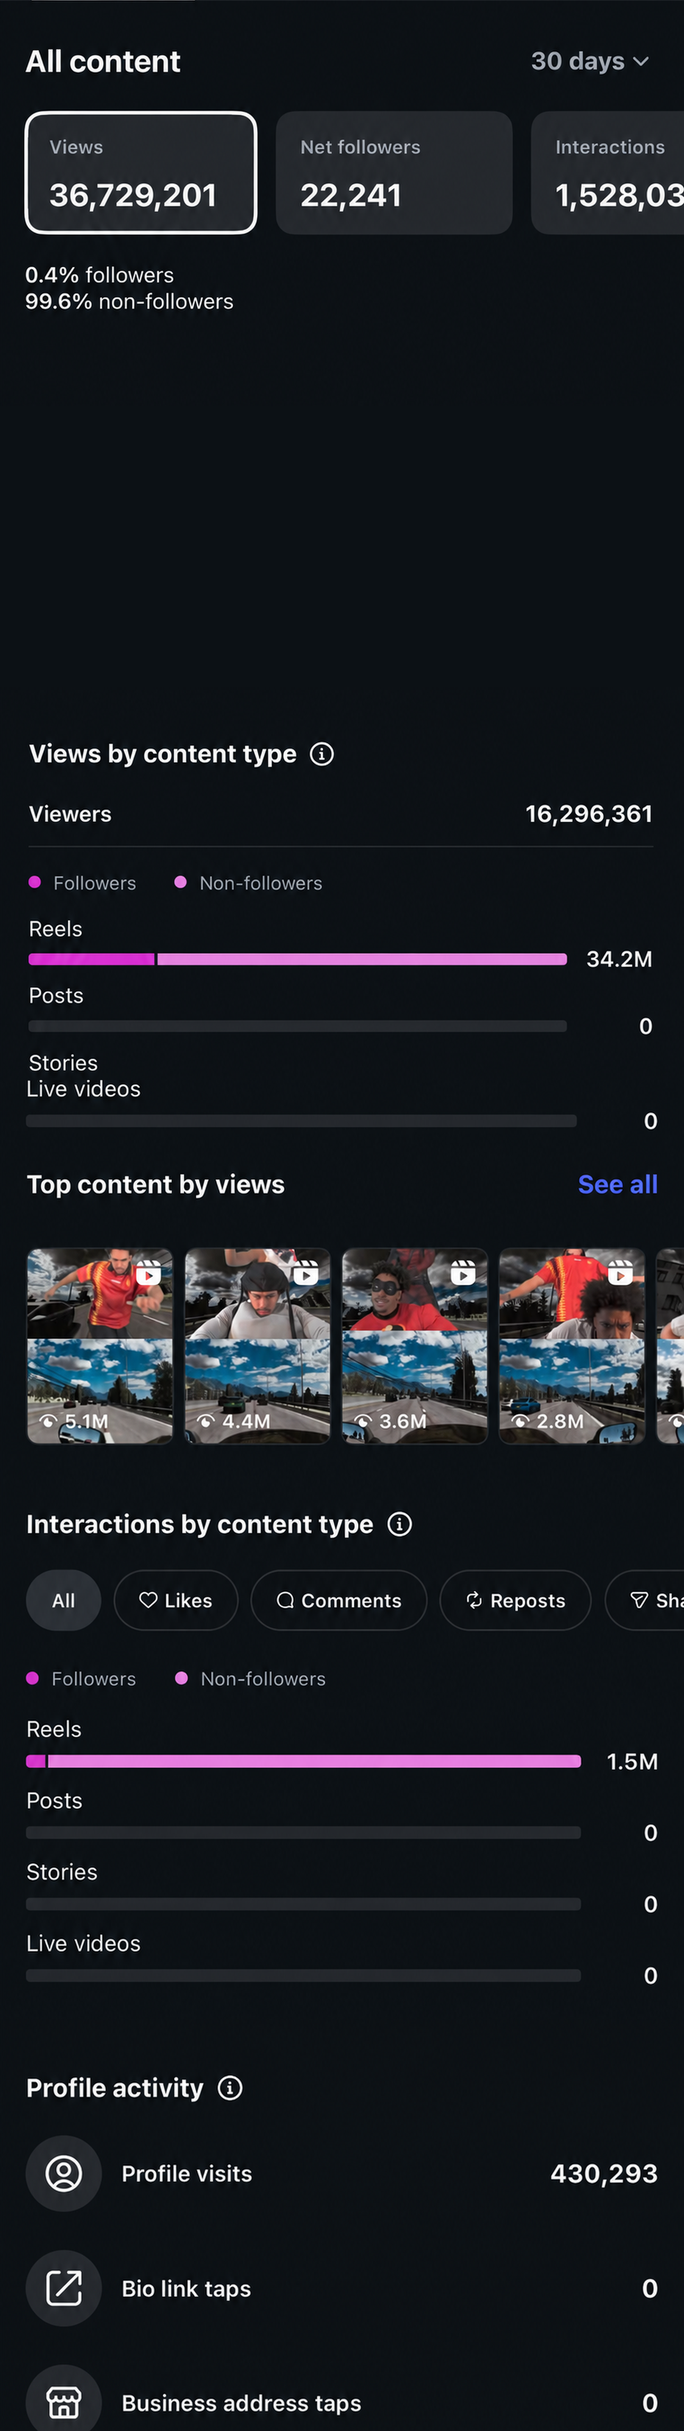
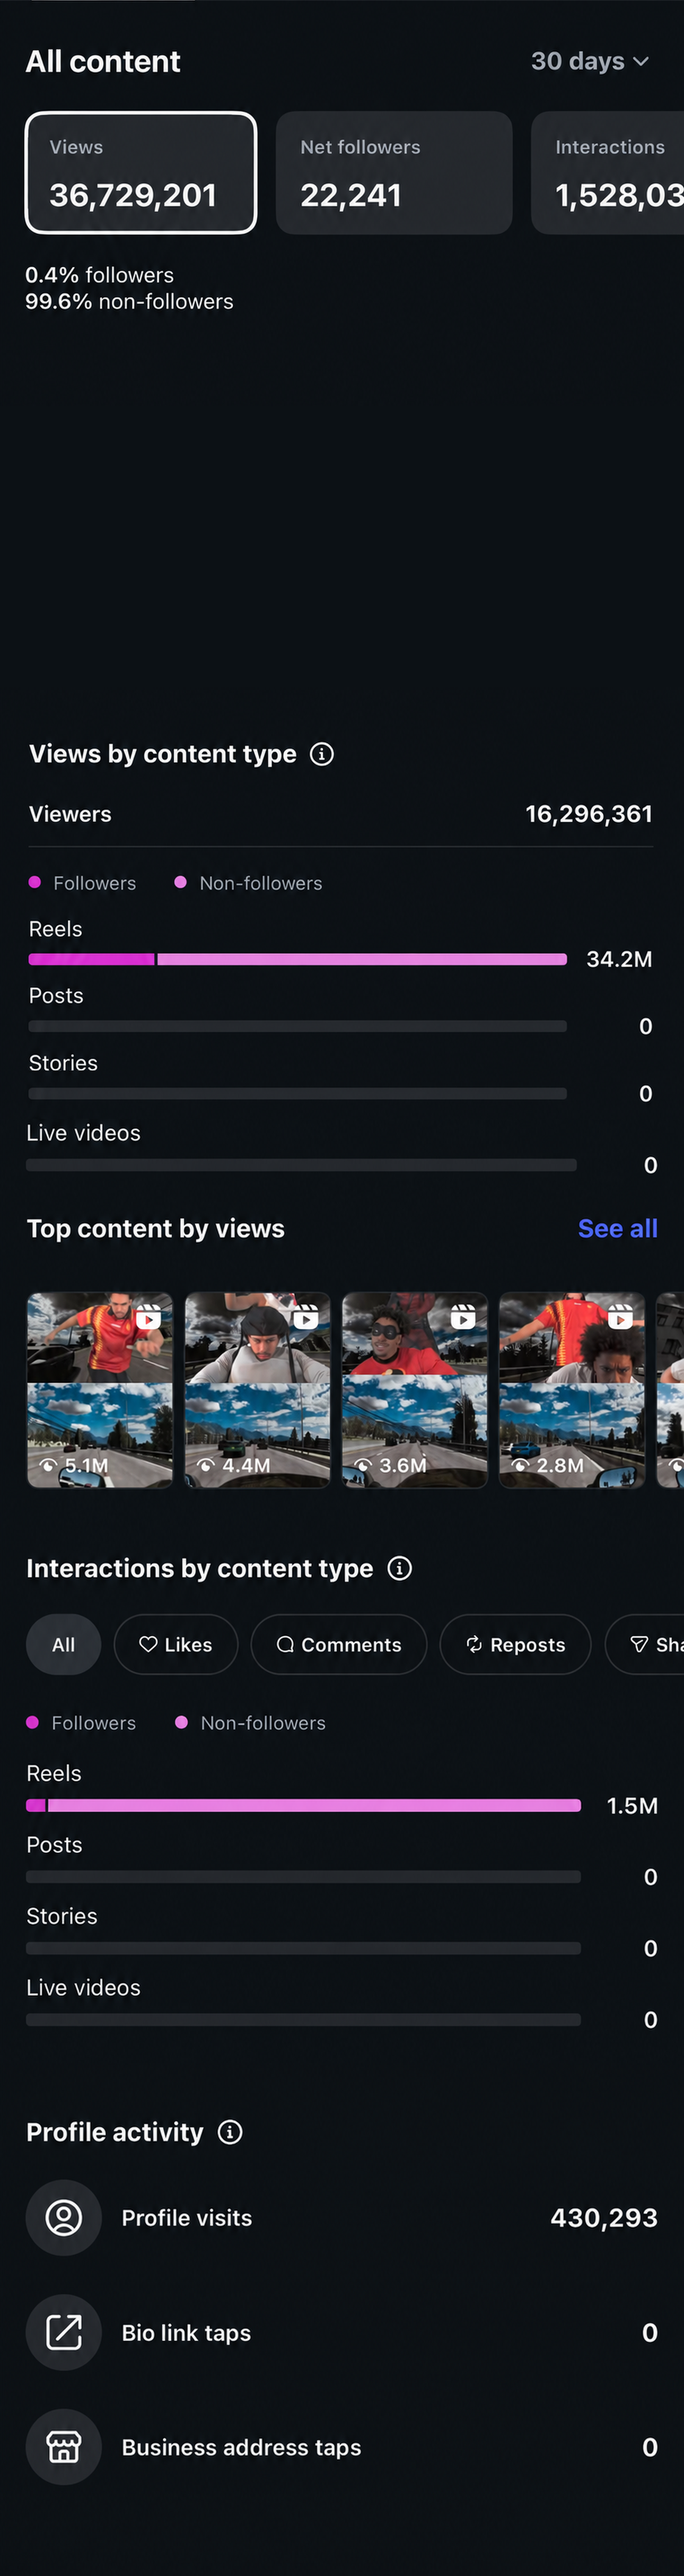
Separate Overview Stories and Live videos, and keep scroll room under Profile activity.

diff --git a/new.html b/new.html
@@ -11,14 +11,14 @@
 <meta name="mobile-web-app-capable" content="yes">
 <meta name="apple-mobile-web-app-status-bar-style" content="black-translucent">
 <meta name="theme-color" content="#000000">
-<link rel="manifest" href="manifest_new.json?v=46">
-<link rel="apple-touch-icon" href="icon.png?v=46">
+<link rel="manifest" href="manifest_new.json?v=47">
+<link rel="apple-touch-icon" href="icon.png?v=47">
 <!-- native iOS launch images: iOS shows these INSTANTLY on tap (before our HTML
      loads), killing the system gray phase. Pixel-identical to the in-page splash. -->
-<link rel="apple-touch-startup-image" media="screen and (device-width: 430px) and (device-height: 932px) and (-webkit-device-pixel-ratio: 3) and (orientation: portrait)" href="launch_1290x2796.png?v=46">
-<link rel="apple-touch-startup-image" media="screen and (device-width: 393px) and (device-height: 852px) and (-webkit-device-pixel-ratio: 3) and (orientation: portrait)" href="launch_1179x2556.png?v=46">
+<link rel="apple-touch-startup-image" media="screen and (device-width: 430px) and (device-height: 932px) and (-webkit-device-pixel-ratio: 3) and (orientation: portrait)" href="launch_1290x2796.png?v=47">
+<link rel="apple-touch-startup-image" media="screen and (device-width: 393px) and (device-height: 852px) and (-webkit-device-pixel-ratio: 3) and (orientation: portrait)" href="launch_1179x2556.png?v=47">
 <title>Instagram</title>
-<script src="config.js?v=46"></script>
+<script src="config.js?v=47"></script>
 <script>
 if('serviceWorker' in navigator){
   navigator.serviceWorker.register('sw.js',{updateViaCache:'none'}).then(r=>r.update());
@@ -66,8 +66,8 @@ if('serviceWorker' in navigator){
   #insContent{position:relative;width:100%;background:#0d1115;}
   #insContent img{display:block;width:100%;}
   /* Overview line chart overlay — sits on the painted graph hole in the screenshot.
-     Percents are of insights_overview_full.png (1290×4583): y 766–1296. */
-  #viewsGraph{position:absolute;left:0;width:100%;top:16.7139%;height:11.5645%;
+     Percents are of insights_overview_full.png (1290×4856): y 766–1296. */
+  #viewsGraph{position:absolute;left:0;width:100%;top:15.7743%;height:10.9143%;
               z-index:4;pointer-events:none;}
   #viewsGraph svg{width:100%;height:100%;display:block;}
   #insLoading{position:fixed;inset:0;z-index:10;background:#0d1115;display:none;}
@@ -76,14 +76,14 @@ if('serviceWorker' in navigator){
   /* interactions: pinned header (safe-area padding, tiled real-bg strip - the /new1
      pattern) + stitched content + swipe-snap Audience carousel */
   #intHdr{position:sticky;top:0;z-index:10;padding-top:env(safe-area-inset-top,0px);
-          background:#0c1115 url(screens/n_int_hdr_bg.png?v=46) repeat-y;background-size:100% 3px;}
+          background:#0c1115 url(screens/n_int_hdr_bg.png?v=47) repeat-y;background-size:100% 3px;}
   #intHdr img{display:block;width:100%;}
   /* carousel: two snap stops (Top cities at 0, Top countries at D=1066/1290 of the
      viewport). Drag and release -> the card settles into place; ends clamp. */
   #audSnap{width:100%;overflow-x:auto;overflow-y:hidden;scroll-snap-type:x mandatory;
            -webkit-overflow-scrolling:touch;background:#0c1115;}
   #audTrack{width:182.6357%;display:flex;aspect-ratio:2356/685;
-            background:url(screens/n_aud_strip.png?v=46) no-repeat;background-size:100% 100%;}
+            background:url(screens/n_aud_strip.png?v=47) no-repeat;background-size:100% 100%;}
   #audTrack .sA{width:45.2462%;scroll-snap-align:start;}
   #audTrack .sB{width:54.7538%;scroll-snap-align:start;}
 </style>
@@ -95,7 +95,7 @@ if('serviceWorker' in navigator){
     <!-- HOME -->
     <div class="screen active" id="s-home">
       <div class="sheet">
-        <img src="screens/n_home.png?v=46">
+        <img src="screens/n_home.png?v=47">
         <div class="hot" style="left:80%;top:89%;width:20%;height:9%" onclick="goProfile()"></div>
       </div>
     </div>
@@ -103,7 +103,7 @@ if('serviceWorker' in navigator){
     <!-- PROFILE -->
     <div class="screen navpad" id="s-profile">
       <div class="sheet">
-        <img src="screens/n_profile.png?v=46">
+        <img src="screens/n_profile.png?v=47">
         <div class="hot" style="left:3%;top:36%;width:94%;height:7%" onclick="goDashboard()"></div>
       </div>
     </div>
@@ -111,7 +111,7 @@ if('serviceWorker' in navigator){
     <!-- DASHBOARD -->
     <div class="screen" id="s-dashboard">
       <div class="sheet">
-        <img id="dashImg" src="screens/n_dash.png?v=46">
+        <img id="dashImg" src="screens/n_dash.png?v=47">
         <!-- Views row -> insights. This capture has no Interactions row
              (Views / New followers / Content). Extra rows stay unwired. -->
         <div class="hot" style="left:0;top:17.8%;width:100%;height:4.8%" onclick="goInsights()"></div>
@@ -121,11 +121,11 @@ if('serviceWorker' in navigator){
     <!-- INTERACTIONS -->
     <div class="screen navpad" id="s-interactions">
       <div id="intHdr">
-        <img src="screens/n_int_header.png?v=46">
+        <img src="screens/n_int_header.png?v=47">
         <div class="hot" style="left:0;top:0;width:16%;height:58%" onclick="goBackDash()"></div>
       </div>
       <div class="sheet">
-        <img src="screens/n_int_top.png?v=46">
+        <img src="screens/n_int_top.png?v=47">
       </div>
       <div id="audSnap">
         <div id="audTrack"><div class="sA"></div><div class="sB"></div></div>
@@ -136,15 +136,15 @@ if('serviceWorker' in navigator){
     <!-- INSIGHTS -->
     <div class="screen" id="s-insights">
       <div id="insHeader">
-        <img id="himg" src="insights_overview_header2.png?v=46">
+        <img id="himg" src="insights_overview_header2.png?v=47">
         <div class="hot" style="left:0;top:65%;width:33.3%;height:35%" onclick="insTab('overview')"></div>
         <div class="hot" style="left:66.7%;top:65%;width:33.3%;height:35%" onclick="insTab('audience')"></div>
       </div>
       <div id="insContent">
-        <img id="cimg" src="insights_overview_full.png?v=46">
+        <img id="cimg" src="insights_overview_full.png?v=47">
         <div id="viewsGraph"></div>
       </div>
-      <div id="insLoading"><img id="loadImg" src="screens/ins_spinner_c.png?v=46"></div>
+      <div id="insLoading"><img id="loadImg" src="screens/ins_spinner_c.png?v=47"></div>
     </div>
 
   </div>
@@ -214,7 +214,7 @@ if('serviceWorker' in navigator){
     document.body.style.background = '#0d1115';
   });
 
-  const ASSET_V = '?v=46';   // bump when any screen image changes (cache-bust mobile)
+  const ASSET_V = '?v=47';   // bump when any screen image changes (cache-bust mobile)
   const el = id => document.getElementById(id);
   // Flow-model navigation: exactly one screen is .active (in normal flow, so it sets
   // the document height and iOS places the safe areas naturally). Transitions overlay

diff --git a/sw.js b/sw.js
@@ -4,7 +4,7 @@
 // background. If the background refresh finds a NEW app shell, clients are notified
 // so they can silently reload while the splash still covers the screen.
 // Bump CACHE on each deploy; activate purges older caches.
-const CACHE = 'ig-v46';
+const CACHE = 'ig-v47';
 
 self.addEventListener('install', () => self.skipWaiting());
 

diff --git a/screens/CROP.md b/screens/CROP.md
@@ -35,11 +35,12 @@ Sources are scaled to width **1290** (folder shots are not always 1290×2796). F
 
 1. Header is `overview1`, `y = 0 … 430` (through the Overview tab underline) → `insights_overview_header2.png`.
 2. Body, sticky chrome skipped on later shots:
-   - `overview1` `y = 430 … ~2466`
-   - `overview2` `y = 490 … 2260`
-   - `overview3` `y = 1820 … content end`
-   → `insights_overview_full.png` (1290×4583)
-3. Paint the line-chart hole at body `y = 766 … 1296` (matches SVG viewBox 1290×530). Overlay CSS: `top:16.7139%; height:11.5645%`.
+   - `overview1` `y = 430 … 2448` (through the Stories label)
+   - cloned Posts `0`-bar `y = 2321 … 2412` (Stories bar is clipped off the bottom of overview1)
+   - `overview2` `y = 480 … 2260`
+   - `overview3` `y = 1820 … height-8` (keep the empty pad under Profile activity)
+   → `insights_overview_full.png` (1290×4856)
+3. Paint the line-chart hole at body `y = 766 … 1296` (matches SVG viewBox 1290×530). Overlay CSS: `top:15.7743%; height:10.9143%`.
 
 ### Audience
 
